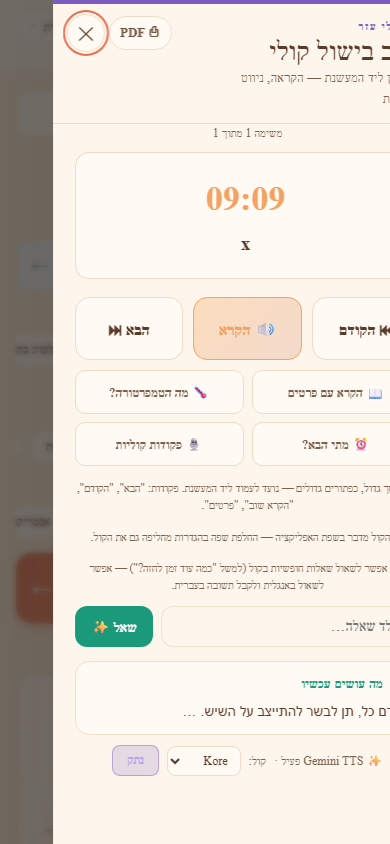
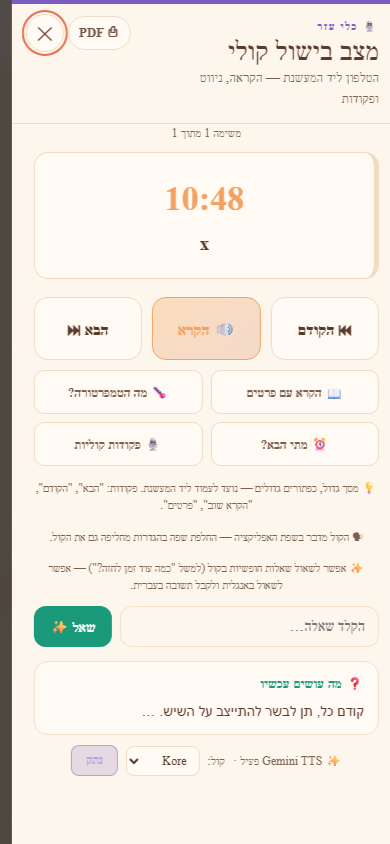
test(streaming): seed mk-uilevel-asked in the DoD-8 spec — its screenshot was capturing the onboarding panel
Found by the ask-row flake root-cause investigation (d23704a), which fixed the same latent defect in
voice-wave0.spec.ts and flagged this sibling. app.js ~12763 runs setTimeout(maybeAskUiLevel, 400) on every
boot, and seedApp clears localStorage, so every test is a first run: 400ms in, showPanel replaces the whole
open panel with the onboarding question.

This spec's assertions read vcLastQA — JS state, not the DOM — so they passed regardless, while the
committed DoD-8 artifact silently captured the onboarding panel instead of the transcript it exists to
prove. A green test and a false piece of visual evidence, in the same file. The screenshot is regenerated
and looked at: the voice-cook panel, the asked question, and the streamed opening sentence ending in an
ellipsis mid-stream, in Hebrew RTL at 390x844.

Worth stating plainly because it undercuts a claim made earlier today: the Task 4 report said the
screenshot had been reviewed and was correct. It had been reviewed — but the artifact was of the wrong
screen, so the review could not have caught it. Asserting on JS state instead of rendered output is what
allowed both to be wrong at once, which is the same lesson v267 taught about measuring translation
coverage at a proxy instead of at the DOM.

Claude-Session: https://claude.ai/code/session_01FkEz5H2BEqg4KCagBicAXr

diff --git a/tests/metered-streaming.spec.ts b/tests/metered-streaming.spec.ts
@@ -375,7 +375,14 @@ test('stale Worker: streaming 404 falls back to non-streaming vcAskAI — the as
 });
 
 test('DoD-8/9: the mid-stream transcript renders the gate-passed opener in Hebrew at 390x844', async ({ page }) => {
-  await seedApp(page, { 'mk-lang': JSON.stringify('he'), 'mk-gemkey': JSON.stringify('k-test') });
+  // 'mk-uilevel-asked' is NOT optional here (root-caused 2026-08-01, askrow-flake-rootcause.md):
+  // app.js ~12763 runs setTimeout(maybeAskUiLevel, 400) on EVERY boot, and seedApp clears localStorage,
+  // so every test is a "first run". 400ms in, showPanel() replaces the whole open panel with the
+  // onboarding question. This test's assertions read vcLastQA (JS state), so they passed anyway while the
+  // screenshot below silently captured the ONBOARDING panel instead of the transcript — the DoD-8
+  // artifact was wrong without a single test going red. Seeding the flag is what 125 of 134 spec files
+  // already do.
+  await seedApp(page, { 'mk-lang': JSON.stringify('he'), 'mk-gemkey': JSON.stringify('k-test'), 'mk-uilevel-asked': 'true' });
   await page.setViewportSize({ width: 390, height: 844 });
   // openVoiceCook fires a fire-and-forget vcWarmAck() network pre-warm — block it (same pattern as the
   // R-32/DoD-8 tests in voice-wave0.spec.ts) so a fake test key never races a real fetch.
